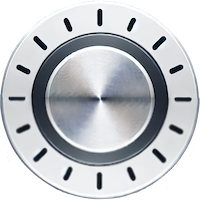
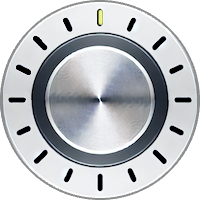
노브 이미지추가, 노브기능추가, UI정리 등등

diff --git a/my_component/frontend/src/KnobComponent.tsx b/my_component/frontend/src/KnobComponent.tsx
@@ -1,4 +1,4 @@
-import React, { useEffect, useState } from "react"
+import React, { useEffect, useRef, useState } from "react"
 import {
   Streamlit,
   withStreamlitConnection,
@@ -6,116 +6,237 @@ import {
 } from "streamlit-component-lib"
 import "./Knob.css"
 
+/** KnobProps 인터페이스 */
 interface KnobProps extends ComponentProps {
   args: {
     size?: "small" | "medium" | "large"
-    knob_type?: string
+    knob_type?: "1" | "2" | "3"
+    title?: string
+    /** 노브가 표현할 값의 최소 범위 */
+    minValue?: number
+    /** 노브가 표현할 값의 최대 범위 */
+    maxValue?: number
+    /** 노브 값에 적용할 step (1, 0.1 등) */
+    step?: number
+    /** 노브의 초기값 */
+    initialValue?: number
   }
 }
 
-function Knob({ args: { size = "medium", knob_type = "2" } }: KnobProps) {
-  const [angle, setAngle] = useState(0)
+/** 노브 각도의 물리적 제한 (실제 포텐셔미터처럼) */
+const MIN_ANGLE = -145
+const MAX_ANGLE = 145
+
+/** 특정 값이 주어진 최소~최대 사이를 벗어나지 않도록 해주는 함수 */
+function clamp(value: number, min: number, max: number) {
+  return Math.max(min, Math.min(value, max))
+}
+
+/** 값 → 각도 변환 (초기 값 세팅에 사용) */
+function valueToAngle(
+  value: number,
+  minValue: number,
+  maxValue: number
+): number {
+  // 예: 50일 때 각도는 (중간치) => 0도 근처
+  const ratio = (value - minValue) / (maxValue - minValue)
+  const angle = MIN_ANGLE + ratio * (MAX_ANGLE - MIN_ANGLE)
+  return clamp(angle, MIN_ANGLE, MAX_ANGLE)
+}
+
+/** 각도 → 값 변환 */
+function angleToValue(
+  angle: number,
+  minValue: number,
+  maxValue: number,
+  step: number = 1
+): number {
+  const ratio = (angle - MIN_ANGLE) / (MAX_ANGLE - MIN_ANGLE)
+  let newValue = minValue + ratio * (maxValue - minValue)
+
+  // step(단계) 반올림
+  if (step > 0) {
+    const roundFactor = 1 / step
+    newValue = Math.round(newValue * roundFactor) / roundFactor
+  }
+  // clamp 값 범위
+  newValue = clamp(newValue, minValue, maxValue)
+  return newValue
+}
+
+function Knob({
+  args: {
+    size = "medium",
+    knob_type = "2",
+    title,
+    minValue = 0,
+    maxValue = 100,
+    step = 1,
+    initialValue = (maxValue - minValue) / 2,
+  },
+}: KnobProps) {
+  /**
+   * 1) 노브 각도/값 상태
+   * - angle: 실제 포텐셔미터처럼 -145° ~ +145° 범위
+   * - knobValue: 노브가 표현하는 값(minValue~maxValue)
+   */
+  const [angle, setAngle] = useState(() =>
+    valueToAngle(initialValue, minValue, maxValue)
+  )
+  const [knobValue, setKnobValue] = useState(initialValue)
+
+  /** 2) 드래그 중인지 여부 */
   const [isDragging, setIsDragging] = useState(false)
 
+  /**
+   * 3) 드래그 계산에 필요한 마우스 위치 기억
+   * - lastMouseY: 바로 이전 이벤트 시점의 마우스 Y좌표
+   */
+  const lastMouseY = useRef<number | null>(null)
+
+  /**
+   * 4) size별 스타일 (이미 제공된 CSS는 그대로 사용)
+   */
   const sizeMap = {
     small: { width: "40px", height: "40px" },
     medium: { width: "55px", height: "55px" },
     large: { width: "110px", height: "110px" },
   }
-
-  const calculateAngle = (mouseX: number, mouseY: number, rect: DOMRect) => {
-    const centerX = rect.left + rect.width / 2
-    const centerY = rect.top + rect.height / 2
-
-    const calculatedAngle =
-      Math.atan2(mouseY - centerY, mouseX - centerX) * (180 / Math.PI) + 90
-    return calculatedAngle
+  const containerSizeMap = {
+    small: "70px",
+    medium: "100px",
+    large: "200px",
   }
+  const shadowMap = {
+    small: "4px 4px 8px rgba(0, 0, 0, 0.5)",
+    medium: "10px 10px 18px rgba(0, 0, 0, 0.9)",
+    large: "10px 10px 18px rgba(0, 0, 0, 0.9)",
+  }
+  const { width, height } = sizeMap[size] || sizeMap.medium
+  const containerSize = containerSizeMap[size] || containerSizeMap.medium
+  const boxShadow = shadowMap[size] || shadowMap.medium
 
+  /**
+   * 5) 마우스 드래그: 각도 업데이트 (상대 Δ 사용)
+   */
   const handleMouseMove = (e: MouseEvent) => {
-    if (!isDragging) return
+    if (!isDragging || lastMouseY.current === null) return
 
-    const knobElement = document.querySelector("img[alt='knob']")
-    if (!knobElement) return
+    // Δy 계산
+    const deltaY = e.clientY - lastMouseY.current
+    lastMouseY.current = e.clientY
 
-    const rect = knobElement.getBoundingClientRect()
-    const newAngle = calculateAngle(e.clientX, e.clientY, rect)
+    // 드래그 감도 (원하는 대로 조절)
+    const DRAG_FACTOR = -1.0
+    // 위로 드래그(ΔY<0) 시 각도 증가, 아래로 드래그(ΔY>0) 시 각도 감소
 
-    if (newAngle !== undefined) {
-      setAngle(newAngle)
-      Streamlit.setComponentValue({ angle: newAngle })
-    }
+    let newAngle = angle + deltaY * DRAG_FACTOR
+    // 물리적 각도 제한에 걸리면 더 이상 업데이트하지 않음
+    newAngle = clamp(newAngle, MIN_ANGLE, MAX_ANGLE)
+
+    // 새 값 계산
+    const newValue = angleToValue(newAngle, minValue, maxValue, step)
+
+    setAngle(newAngle)
+    setKnobValue(newValue)
+    Streamlit.setComponentValue({ angle: newAngle, value: newValue })
   }
 
   const handleMouseDown = (e: React.MouseEvent) => {
     e.preventDefault()
     setIsDragging(true)
+    lastMouseY.current = e.clientY
   }
 
   const handleMouseUp = () => {
     setIsDragging(false)
+    lastMouseY.current = null
   }
 
+  /**
+   * 6) 전역 mousemove/mouseup 등록/해제
+   */
   useEffect(() => {
     document.addEventListener("mousemove", handleMouseMove)
     document.addEventListener("mouseup", handleMouseUp)
-
     return () => {
       document.removeEventListener("mousemove", handleMouseMove)
       document.removeEventListener("mouseup", handleMouseUp)
     }
-  }, [isDragging])
+  }, [isDragging, angle])
 
+  /**
+   * 7) Streamlit 높이 자동조절
+   */
   useEffect(() => {
     Streamlit.setFrameHeight()
+    Streamlit.setComponentValue({ angle: 0, value: (maxValue - minValue) / 2 })
   }, [])
 
-  const { width, height } = sizeMap[size] || sizeMap.small
-
+  /**
+   * 8) JSX 렌더링
+   */
   return (
-    <div id="center">
-      <img
-        className="knobe_in"
-        src={`/knob${knob_type}_in.png`}
-        alt="knob_in"
-        style={{
-          position: "absolute",
-          zIndex: 1,
-          transform: `rotate(${angle}deg)`,
-          width: width,
-          height: height,
-        }}
-        onMouseDown={handleMouseDown}
-        onMouseUp={handleMouseUp}
-      />
-      <img
-        className="knobe"
-        src={`/knob${knob_type}.png`}
-        alt="knob"
-        style={{
-          transform: `rotate(${angle}deg)`,
-          width:
-            size === "small" ? "70px" : size === "large" ? "200px" : "100px",
-          height:
-            size === "small" ? "70px" : size === "large" ? "200px" : "100px",
-        }}
-        onMouseDown={handleMouseDown}
-        onMouseUp={handleMouseUp}
-      />
-      <div
-        className="knobe_shadow"
-        style={{
-          position: "absolute",
-          zIndex: 1,
-          width: width,
-          height: height,
-          boxShadow:
-            size === "small"
-              ? "4px 4px 8px rgba(0, 0, 0, 0.5)"
-              : "10px 10px 18px rgba(0, 0, 0, 0.9)",
-          borderRadius: "50%", // 원형 그림자
-        }}
-      ></div>
+    <div
+      id="box_container"
+      style={{
+        display: "flex",
+        flexDirection: "column",
+        alignItems: "center",
+        width: containerSize,
+        height: containerSize,
+      }}
+    >
+      {/* 상단에 노브 타이틀 */}
+      <p style={{ marginBottom: "10px", fontWeight: "bold" }}>{title}</p>
+
+      {/* 중앙의 노브 컨테이너 */}
+      <div id="center">
+        {/* 그림자 영역 */}
+        <div
+          className="knob-shadow"
+          style={{
+            position: "absolute",
+            zIndex: 1,
+            width,
+            height,
+            borderRadius: "50%",
+            boxShadow,
+          }}
+        />
+        {/* 안쪽(Inner) 이미지 */}
+        <img
+          className="knob-inner"
+          src={`/knob${knob_type}_in.png`}
+          alt="knob_in"
+          style={{
+            position: "absolute",
+            zIndex: 1,
+            width,
+            height,
+            transform: `rotate(${angle}deg)`,
+          }}
+          onMouseDown={handleMouseDown}
+        />
+
+        {/* 바깥쪽(Outer) 이미지 */}
+        <img
+          className="knob-outer"
+          src={`/knob${knob_type}.png`}
+          alt="knob"
+          style={{
+            width: containerSize,
+            height: containerSize,
+            transform: `rotate(${angle}deg)`,
+          }}
+          onMouseDown={handleMouseDown}
+        />
+      </div>
+
+      {/* 하단에 노브 값 표시 */}
+      <div style={{ marginTop: "10px" }}>
+        <span style={{ fontWeight: "bold" }}>{knobValue}</span>
+      </div>
     </div>
   )
 }

diff --git a/my_component/frontend/src/Knob.css b/my_component/frontend/src/Knob.css
@@ -1,9 +1,9 @@
-body {
-  margin: 0;
-  position: relative;
-  display: flex;
-  justify-content: center;
-  align-items: center;
+#box_container {
+  /* 드래그 방지 */
+  -webkit-user-select: none;
+  -moz-user-select: none;
+  -ms-user-select: none;
+  user-select: none;
 }
 
 #center {
@@ -11,11 +11,4 @@ body {
   display: flex;
   justify-content: center;
   align-items: center;
-}
-
-.knob {
-  background-size: contain;
-  background-repeat: no-repeat;
-  background-position: center;
-  transform-origin: center;
 }

diff --git a/my_component/__init__.py b/my_component/__init__.py
@@ -7,5 +7,10 @@ knob_component = components.declare_component("knob_component", url="http://loca
 
 st.header("Streamlit Knobes")
 
+knob1_return = knob_component(knob_type="1",size="medium",title="KNOB 1",maxValue=10000,minValue=0)
+knob2_return = knob_component(knob_type="2",size="medium",title="KNOB 2",maxValue=10000,minValue=0)
+knob3_return = knob_component(knob_type="3",size="medium",title="KNOB 3",maxValue=10000,minValue=0)
 
-knob_component(size="medium")
+st.write(f"**1번: {knob1_return["value"]}**")
+st.write(f"**2번: {knob2_return["value"]}**")
+st.write(f"**3번: {knob3_return["value"]}**")
